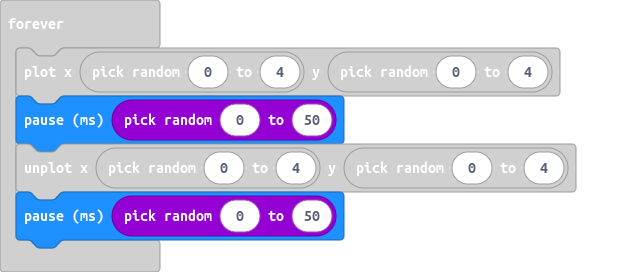
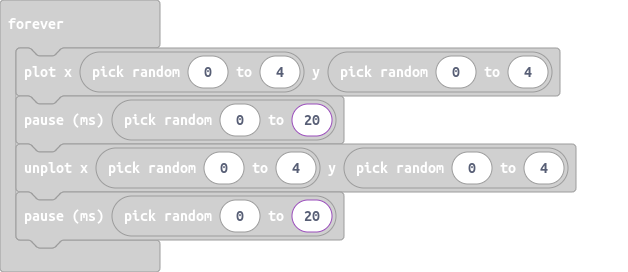
decresed delay

Changed region(s): [[0.0, 0.6765, 0.5748, 0.9412], [0.0, 0.3235, 0.5748, 0.5588]]

diff --git a/main.ts b/main.ts
@@ -9,7 +9,7 @@ basic.showLeds(`
 basic.pause(100)
 basic.forever(function () {
     led.plot(randint(0, 4), randint(0, 4))
-    basic.pause(randint(0, 50))
+    basic.pause(randint(0, 20))
     led.unplot(randint(0, 4), randint(0, 4))
-    basic.pause(randint(0, 50))
+    basic.pause(randint(0, 20))
 })
